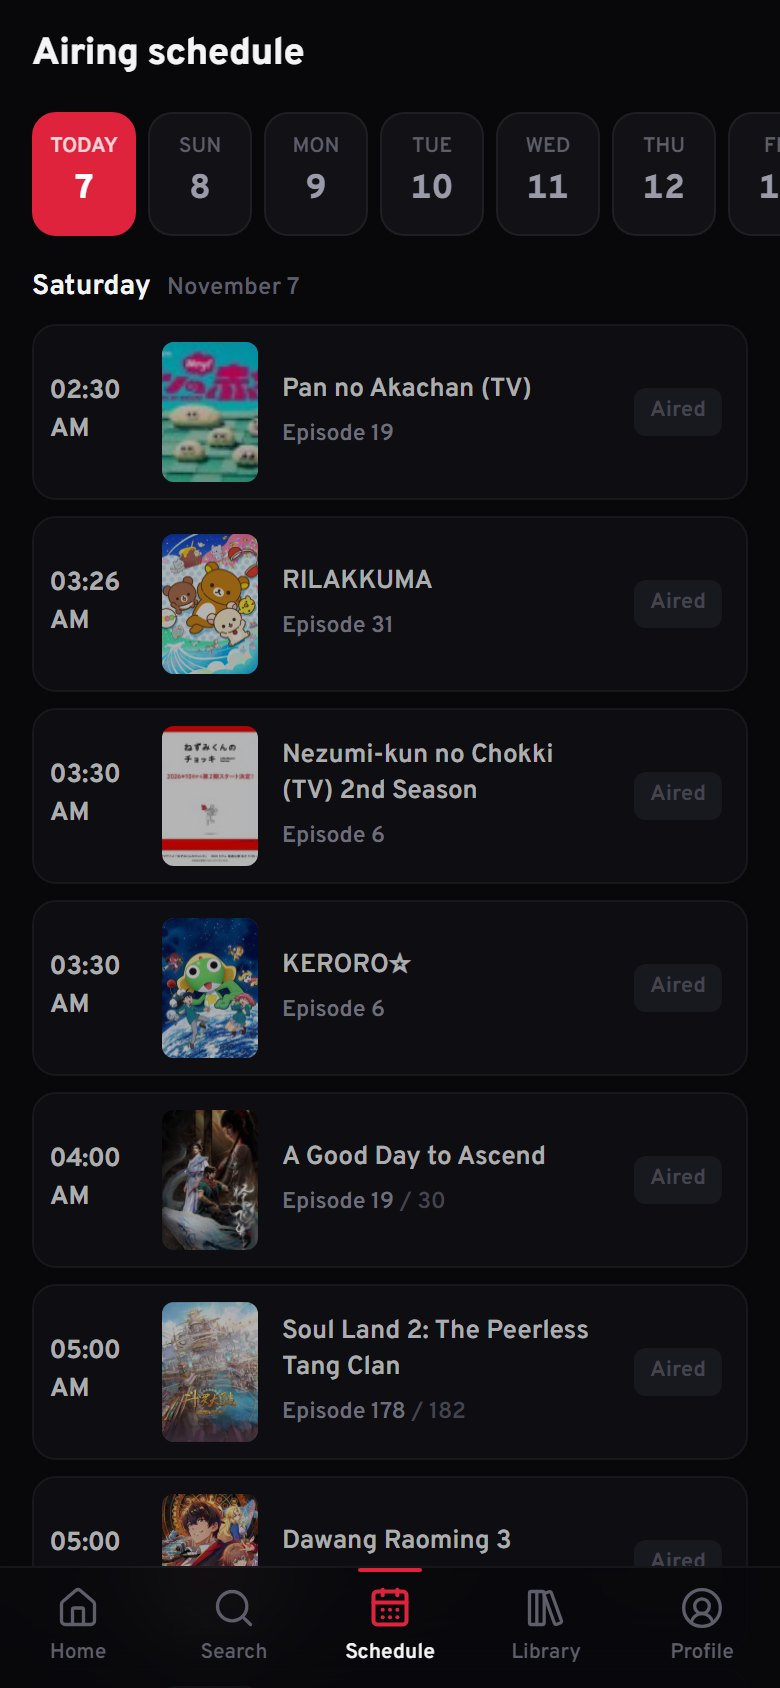
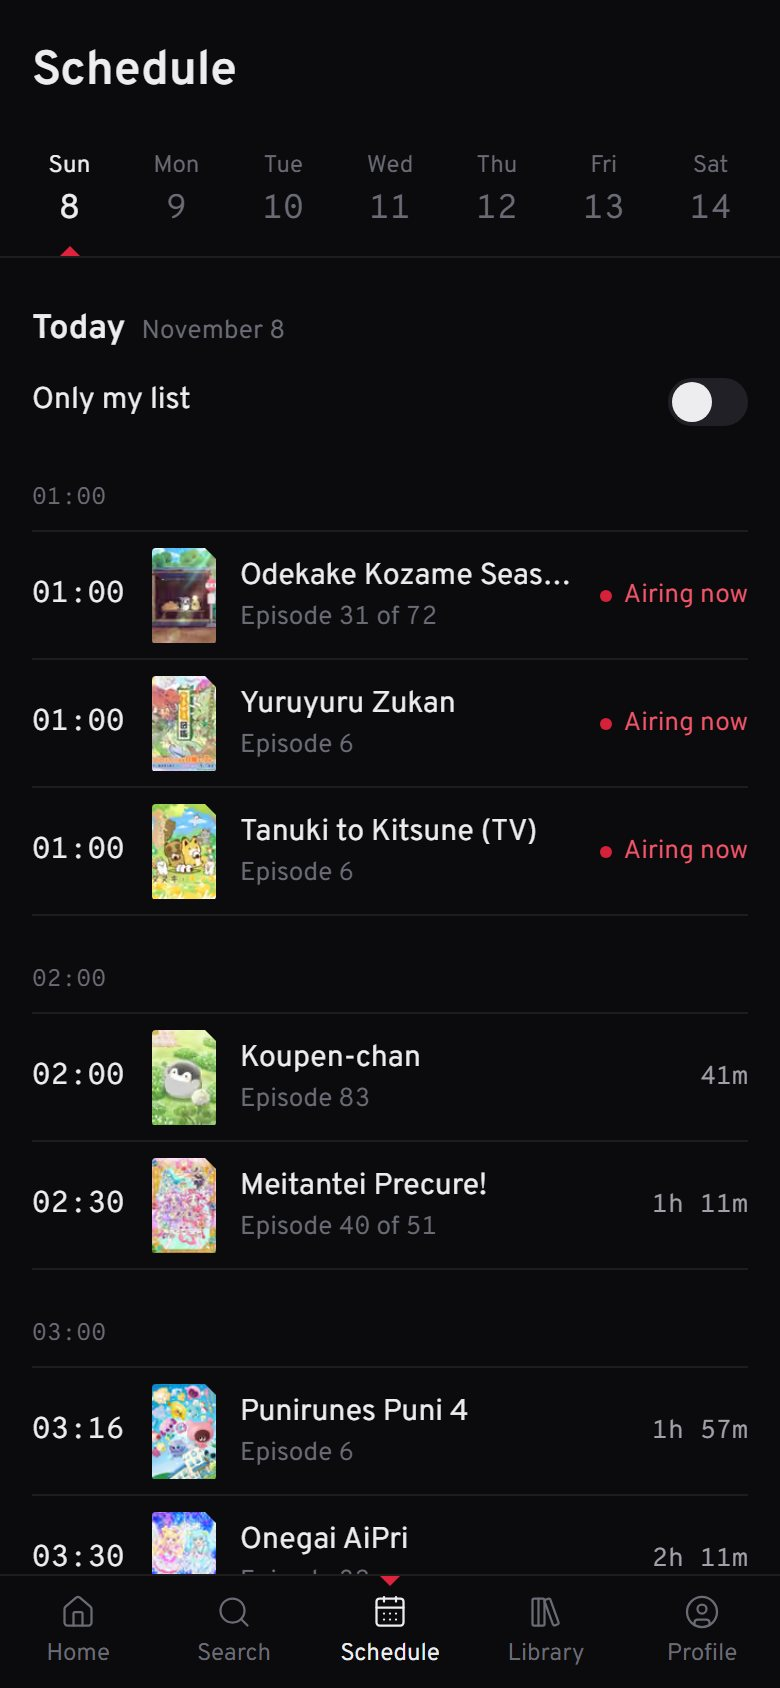
docs: update readme for monorepo

diff --git a/README.md b/README.md
@@ -4,13 +4,13 @@
 
 # AniList for Telegram
 
-**The most complete AniList client for Telegram — a fast bot, smart notifications, shareable cards and a full Mini App.**
+**A complete AniList client inside Telegram — a fast bot, accurate notifications, shareable cards and a full Mini App.**
 
 [![CI](https://github.com/Westyasha/AniList_Telegram/actions/workflows/ci.yml/badge.svg)](https://github.com/Westyasha/AniList_Telegram/actions/workflows/ci.yml)
 ![Python](https://img.shields.io/badge/python-3.12-E0233D?logo=python&logoColor=white)
-![aiogram](https://img.shields.io/badge/aiogram-3.26-E0233D?logo=telegram&logoColor=white)
-![React](https://img.shields.io/badge/Mini%20App-React%20%2B%20TS-E0233D?logo=react&logoColor=white)
-![Languages](https://img.shields.io/badge/i18n-RU%20%7C%20EN-E0233D)
+![PostgreSQL](https://img.shields.io/badge/PostgreSQL-16-E0233D?logo=postgresql&logoColor=white)
+![Next.js](https://img.shields.io/badge/Next.js-16-E0233D?logo=nextdotjs&logoColor=white)
+![Languages](https://img.shields.io/badge/i18n-EN%20%7C%20RU-E0233D)
 
 [**Open the bot →**](https://t.me/westyasha_AniList_bot)
 
@@ -20,15 +20,14 @@
 
 ## Highlights
 
-- **One message, no clutter.** Every menu is a screen that edits itself in place. Back navigation survives restarts.
-- **Real list management.** Status, `+1 episode` from anywhere, rewatch counting, notes, removal — and scores in *your* AniList score format (100 / 10.0 / 10 / ★5 / 🙂3).
-- **Notifications that are right.** Checked every 5 minutes, sent only for episodes that actually aired, deduplicated in the database, per-status toggles, sequel/spin-off alerts and AniList follows, likes and replies relayed to Telegram.
-- **Crisp profile card in under a second.** A persistent Chromium renders 2400 px cards from prefetched full-size images (was ~8 s at 1200 px). Cached by content hash, re-sent instantly by `file_id`.
-- **AniList Wrapped.** A story-format yearly recap built from your real activity: episodes, hours, monthly chart, top genres and titles.
-- **Telegram Mini App.** AniList-style home, search with filters, weekly schedule, library with a full entry editor, profile statistics, notifications inbox.
-- **Proper login.** OAuth authorization-code flow with a confirmation page — no copy-pasting tokens.
-- **Fully bilingual.** Russian and English everywhere: bot, cards, auth pages, Mini App, command menu.
-- **Inline mode.** Share any anime, what you're watching, or your profile card in any chat.
+- **One message, no clutter.** Every bot menu is a screen that edits itself in place, and Back navigation survives restarts.
+- **Real list management.** Status, `+1 episode` from anywhere, rewatch counting, notes and removal — with scores in *your* AniList format (100 / 10.0 / 10 / ★5 / 3 faces).
+- **Notifications that are right.** Checked every 5 minutes, sent only for episodes that actually aired, deduplicated in the database, per-status toggles, sequel alerts, and AniList follows, likes and replies relayed to Telegram.
+- **Crisp cards in under a second.** A persistent Chromium renders a 2400 px profile card and a story-sized AniList Wrapped from prefetched full-size art, cached by content hash.
+- **Telegram Mini App.** Home with the trending scene, search with filters, the weekly schedule, a library with a full entry editor, profile statistics and the notification inbox.
+- **One-tap login.** OAuth authorization-code flow with a confirmation page that shows both accounts before linking.
+- **Fully bilingual.** English and Russian everywhere: bot, cards, Mini App and the command menu.
+- **Inline mode.** Share any anime, what you're watching or your profile card in any chat.
 
 ## Screenshots
 
@@ -36,13 +35,17 @@
 |:---:|:---:|:---:|
 | <img src="docs/screenshots/app-home.jpg" width="260"> | <img src="docs/screenshots/app-media.jpg" width="260"> | <img src="docs/screenshots/app-profile.jpg" width="260"> |
 
-| Schedule | Search | Wrapped |
+| Library | Entry editor | Schedule |
 |:---:|:---:|:---:|
-| <img src="docs/screenshots/app-schedule.jpg" width="260"> | <img src="docs/screenshots/app-search.jpg" width="260"> | <img src="docs/screenshots/wrapped.jpg" width="260"> |
+| <img src="docs/screenshots/app-library.jpg" width="260"> | <img src="docs/screenshots/app-editor.jpg" width="260"> | <img src="docs/screenshots/app-schedule.jpg" width="260"> |
 
 <div align="center">
 <img src="docs/screenshots/card.jpg" width="100%" alt="Profile card">
-<br><sub>Profile card — 2400 px, rendered in under a second and cached by content hash</sub>
+<br><sub>Profile card, 2400 px</sub>
+<br><br>
+<img src="docs/screenshots/wrapped.jpg" width="320" alt="AniList Wrapped">
+&nbsp;&nbsp;
+<img src="docs/screenshots/auth-confirm.jpg" width="520" alt="Login confirmation">
 </div>
 
 ## How it compares
@@ -50,102 +53,97 @@
 | | This project | lostb053/anibot | Fazendaaa/AnilistBot |
 |---|:---:|:---:|:---:|
 | Search anime, manga, characters, staff, users | ✅ | partial | inline only |
-| Edit list: status, progress, score, notes | ✅ | status only | local list |
+| Edit list: status, progress, score, notes, dates | ✅ | status only | local list |
 | Respects the user's score format | ✅ | — | — |
 | Airing alerts from AniList data, deduplicated | ✅ | scraped sources | own scheduler |
-| AniList follows / likes / replies in Telegram | ✅ | — | — |
+| AniList follows, likes and replies in Telegram | ✅ | — | — |
 | OAuth login without copying codes | ✅ | PIN | — |
 | Profile card, Wrapped, statistics | ✅ | basic | — |
 | Telegram Mini App | ✅ | — | — |
-| In-place message navigation | ✅ | — | — |
 
 ## Architecture
 
 ```mermaid
 flowchart LR
-    TG[Telegram] -->|updates| BOT[aiogram dispatcher]
-    BOT --> NAV[Screen router<br/>edit-in-place + nav stack]
-    NAV --> SCR[Screens]
-    BOT --> ACT[Actions / input / inline]
-    MA[Mini App<br/>React + TS] -->|initData| API[aiohttp API<br/>persisted operations]
-    API --> AL
-    SCR --> AL[AniList client<br/>rate limit · cache · dedupe]
-    ACT --> AL
-    AL --> GQL[(AniList GraphQL)]
-    NOTIF[Notifier] --> AL
-    NOTIF --> TG
+    TG[Telegram] -->|updates| BOT[Bot<br/>aiogram 3]
+    TG -->|Mini App| WEB[Web<br/>Next.js]
+    WEB -->|/api with initData| API[API<br/>aiohttp]
+    BOT --> CORE[AniList client<br/>rate limit · cache · dedupe]
+    API --> CORE
+    NOTIF[Notifier] --> CORE
+    CORE --> GQL[(AniList GraphQL)]
+    BOT & API & NOTIF --> PG[(PostgreSQL)]
     CARDS[Card renderer<br/>persistent Chromium] --> TG
-    BOT & API & NOTIF --> DB[(SQLite<br/>encrypted tokens)]
-    OAUTH[/auth/callback/] --> DB
+    NOTIF --> TG
 ```
 
 ```
-app/
-├── anilist/        GraphQL client, queries, OAuth, helpers
-├── bot/
-│   ├── navigation.py   screen router and in-place rendering
-│   ├── screens/        home, search, media, library, browse, profile, settings, auth, help
-│   └── handlers/       commands, actions, input, cards, inline, errors
-├── db/             schema, migrations, repositories, FSM storage
-├── i18n/           ru.toml, en.toml
-├── services/       notifier, cards (renderer, templates, fonts), auth
-└── web/            Mini App API, OAuth pages
-webapp/             Telegram Mini App (Vite, React, TypeScript, Tailwind)
-deploy/             systemd unit, nginx config, deploy script
-tests/              pytest suite
+backend/                 Python 3.12 · aiogram 3 · aiohttp · SQLAlchemy 2 · Alembic
+├── app/
+│   ├── anilist/         GraphQL client, queries, OAuth, helpers
+│   ├── bot/             screen router, screens, handlers, keyboards
+│   ├── db/              schema, repositories, FSM storage
+│   ├── i18n/            en.toml, ru.toml
+│   ├── services/        notifier, cards renderer and templates
+│   └── web/             Mini App API, OAuth endpoints
+├── migrations/          Alembic migrations
+└── tests/               pytest, including PostgreSQL integration tests
+web/                     Next.js 16 · React 19 · TypeScript · Tailwind v4 · TanStack Query
+├── src/app/             routes: home, search, schedule, library, media, profile, auth
+├── src/components/      design system and media components
+├── src/features/        screens
+└── src/api, src/lib     typed API layer, Telegram SDK wrapper, i18n
+deploy/                  systemd units, nginx example, deploy script
+docker-compose.yml       postgres + backend + web
 ```
 
 ### Design notes
 
-- **Screens are routes.** Callback data like `/m/154587` resolves to a builder that returns `Screen(text, keyboard, image)`. The image is rendered as a large link preview above the text, so every screen is a text message that can always be edited.
-- **AniList rate limits.** The API currently allows 30 requests per minute. A shared sliding-window limiter, `Retry-After` handling, response caching and in-flight request deduplication keep the bot inside that budget.
-- **Security.** AniList tokens are encrypted at rest (Fernet). Mini App requests are authenticated by validating Telegram `initData` (HMAC-SHA256, freshness check) and can only run allow-listed GraphQL operations with per-user rate limits. OAuth `state` is a single-use nonce bound to the Telegram user, and the final step shows both accounts before linking.
+- **Screens are routes.** Bot callback data like `/m/154587` resolves to a builder that returns `Screen(text, keyboard, image)`. The image is a large link preview above the text, so every screen is a text message that can always be edited in place.
+- **Rate limits.** AniList currently allows 30 requests per minute. A shared sliding-window limiter, `Retry-After` handling, response caching and in-flight request deduplication keep the bot and the Mini App inside that budget.
+- **Persisted operations.** The Mini App never sends GraphQL: it calls named operations that the backend allow-lists, so tokens stay on the server.
+- **Security.** AniList tokens are encrypted at rest (Fernet). Mini App requests are authenticated by validating Telegram `initData` (HMAC-SHA256 with a freshness check). OAuth `state` is a single-use nonce bound to the Telegram user, the pending token waits encrypted in the database, and the confirmation page needs a CSRF token kept in the URL fragment.
+- **Design system.** Neutral graphite chrome, color only from cover art, and one signature detail taken from the logo: a 45° facet on posters, primary buttons and the active tab.
 
 ## Self-hosting
 
 ### Requirements
 
-- Python 3.12+, Node 20.19+
+- Python 3.12+, Node 20.9+, PostgreSQL 14+
 - A bot token from [@BotFather](https://t.me/BotFather)
 - An AniList API client from [anilist.co/settings/developer](https://anilist.co/settings/developer) with the redirect URL `https://<your-domain>/auth/callback`
-- A domain with HTTPS for the Mini App and OAuth callback
-
-### Local run
-
-```bash
-git clone https://github.com/Westyasha/AniList_Telegram.git
-cd AniList_Telegram
-python -m venv .venv && source .venv/bin/activate
-pip install -r requirements-dev.txt
-playwright install chromium
-cp .env.example .env
-python -m app
-```
-
-Mini App development server (proxies `/api` to the bot backend):
-
-```bash
-cd webapp
-npm install
-VITE_API_PROXY=http://127.0.0.1:8090 npm run dev
-```
+- A domain with HTTPS for the Mini App and the OAuth callback
 
 ### Docker
 
 ```bash
-cp .env.example .env
+cp backend/.env.example .env
 docker compose up -d --build
 ```
 
-### Production (systemd + nginx)
+### Local development
 
 ```bash
-sudo useradd --system --home-dir /opt/anilist-telegram anilist
-sudo git clone https://github.com/Westyasha/AniList_Telegram.git /opt/anilist-telegram
-sudo cp deploy/anilist-bot.service /etc/systemd/system/
-sudo cp deploy/nginx.conf /etc/nginx/sites-available/anilist
-sudo systemctl enable anilist-bot
-sudo /opt/anilist-telegram/deploy/deploy.sh
+cd backend
+python -m venv .venv && source .venv/bin/activate
+pip install -r requirements-dev.txt
+playwright install chromium
+alembic upgrade head
+python -m app
+```
+
+```bash
+cd web
+npm install
+BACKEND_URL=http://127.0.0.1:8090 npm run dev
+```
+
+### Production
+
+The reference setup runs both apps as systemd services behind nginx: requests to `/api/`, `/auth/login` and `/auth/callback` go to the backend, everything else to Next.js. See [`deploy/`](deploy).
+
+```bash
+sudo bash deploy/deploy.sh
 ```
 
 ### Configuration
@@ -156,22 +154,23 @@ sudo /opt/anilist-telegram/deploy/deploy.sh
 | `SECRET_KEY` | ✅ | Long random string used to encrypt AniList tokens |
 | `ANILIST_CLIENT_ID` | ✅ | AniList API client id |
 | `ANILIST_CLIENT_SECRET` | ✅ | AniList API client secret |
-| `ANILIST_REDIRECT_URI` | | `https://<domain>/auth/callback`; the PIN URL enables the copy-code fallback |
-| `PUBLIC_URL` | | Public HTTPS origin of the Mini App and OAuth pages |
+| `DATABASE_URL` | ✅ | `postgresql+asyncpg://user:password@host:5432/db` |
+| `ANILIST_REDIRECT_URI` | | `https://<domain>/auth/callback`; the AniList PIN URL enables the copy-code fallback |
+| `PUBLIC_URL` | | Public HTTPS origin of the Mini App |
 | `WEB_HOST`, `WEB_PORT` | | Backend bind address, default `127.0.0.1:8090` |
-| `DATABASE_PATH` | | SQLite file, default `data/bot.db` |
-| `LEGACY_DATABASE_PATH` | | Old `users.db` to import once, default `users.db` |
 | `NOTIFIER_INTERVAL` | | Seconds between notification checks, default `300` |
 | `LOG_LEVEL` | | Default `INFO` |
+| `BACKEND_URL` | | For `web/`: backend origin used by the dev proxy |
 
 ## Development
 
 ```bash
-ruff check app tests && ruff format app tests
-pytest -q
-cd webapp && npm run lint && npm run build
+cd backend && ruff check app tests && ruff format app tests && alembic check && pytest -q
+cd web && npm run typecheck && npm run lint && npm run build
 ```
+
+PostgreSQL integration tests run when `TEST_DATABASE_URL` is set; CI runs them against a Postgres service container.
 
 ## Acknowledgements
 
-Built on the excellent [AniList GraphQL API](https://docs.anilist.co) and its [documentation](https://github.com/AniList/docs). Not affiliated with AniList.
+Built on the [AniList GraphQL API](https://docs.anilist.co) and its [documentation](https://github.com/AniList/docs). Not affiliated with AniList.
